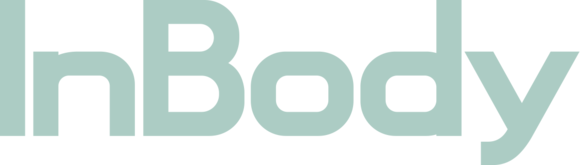
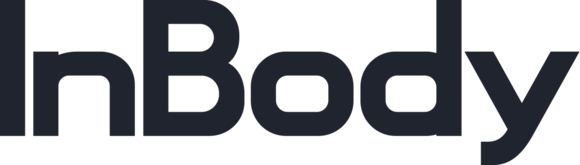
1.2 image update dev

diff --git a/util_1_2.py b/util_1_2.py
@@ -807,7 +807,7 @@ def initialize(array_for_static_l, value_for_static_l, array_for_static_r, value
                     WHEEL_USE = False
                     laser_state = mode_2_off(mode_global, laser_state)
                     print('MODE 1, 대기 모드')
-                    win32api.mouse_event(win32con.MOUSEEVENTF_LEFTUP, 2020, 100, 0, 0)
+                    win32api.mouse_event(win32con.MOUSEEVENTF_LEFTUP, 100, 100, 0, 0)
 
                     # win32api.keybd_event(0x74, 0, 0, 0)  # F5 DOWN
                     # win32api.keybd_event(0x74, 0, win32con.KEYEVENTF_KEYUP, 0)  # F5 UP
@@ -918,7 +918,7 @@ def initialize(array_for_static_l, value_for_static_l, array_for_static_r, value
                     mod_y = max(0, mod_y);
                     mod_y = min(FULLSIZE[1], mod_y)
                     # print(mod_x, mod_y)
-                    return int(mod_x) + 1920, int(mod_y)
+                    return int(mod_x) - 1919, int(mod_y)
 
                 def mousemove(self):
                     if now_click == True:
@@ -1574,12 +1574,9 @@ def initialize(array_for_static_l, value_for_static_l, array_for_static_r, value
             Form.setStyleSheet("background-color : rgb(248, 249, 251);")
 
             self.label = QtWidgets.QLabel(Form)
-            self.label.setGeometry(QtCore.QRect(272, 72, 271, 41))
-            font = QtGui.QFont()
-            font.setFamily("서울남산 장체B")
-            font.setPointSize(18)
-            self.label.setFont(font)
-            self.label.setStyleSheet("color : rgb(32, 36, 47)")
+            self.label.setGeometry(QtCore.QRect(217, 72, 300, 48))
+
+            self.label.setStyleSheet("image:url(./Image/logo.png)")
             self.label.setObjectName("label")
 
             # self.label_2 = QtWidgets.QLabel(Form)
@@ -1608,13 +1605,13 @@ def initialize(array_for_static_l, value_for_static_l, array_for_static_r, value
             self.pushButton_8.setStyleSheet(
                 '''
                 QPushButton{image:url(./Image/setting.png); border:0px;}
-                QPushButton:hover{image:url(./Image/setting-hover.png); border:0px;}
+                QPushButton:hover{image:url(./Image/setting_hover.png); border:0px;}
                 ''')
             self.pushButton_8.setObjectName("pushButton_8")
             self.pushButton_8.clicked.connect(self.settingwindow)
 
             # Button 5 : Power
-            self.pushButton_5 = QtWidgets.QPushButton('&카메라 켜기', Form)
+            self.pushButton_5 = QtWidgets.QPushButton(Form)
             self.pushButton_5.setGeometry(QtCore.QRect(30, 538, 502, 100))
             self.pushButton_5.setStyleSheet("border-radius : 100; border : 2px;")
             '''
@@ -1622,6 +1619,7 @@ def initialize(array_for_static_l, value_for_static_l, array_for_static_r, value
                 QPushButton:hover{image:url(./image/Power-hover.png); border:0px;}
                 QPushButton:checked{image:url(./image/Power-on.png); border:0px;}
             '''
+
             self.pushButton_5.setStyleSheet(
                 '''
                 QPushButton{
@@ -1630,19 +1628,24 @@ def initialize(array_for_static_l, value_for_static_l, array_for_static_r, value
                     stop:0 rgba(226, 0, 46, 255),
                     stop:1 rgba(144, 61, 167, 255));
                     border-radius: 30px;
+                    image:url(./image/cam_on.png);
                 }
                 QPushButton:hover {
                     background-color: rgb(246, 20, 66); border-radius: 30px;
                 }
+                QPushButton:checked{
+                    background-color: rgb(246, 20, 66); border-radius: 30px;
+                    image:url(./image/cam_off.png);
+                    }
                 ''')
             self.pushButton_5.setObjectName("pushButton_5")
             self.pushButton_5.setCheckable(True)
             self.pushButton_5.raise_()
 
             # Button 6 : Question Mark
-            self.pushButton_6 = QtWidgets.QPushButton('&가이드 열기', Form)
+            self.pushButton_6 = QtWidgets.QPushButton(Form)
             self.pushButton_6.setGeometry(QtCore.QRect(547, 538, 502, 100))
-            self.pushButton_6.setStyleSheet("border-radius : 55; border : 2px;")
+            self.pushButton_6.setStyleSheet("border : 2px;")
             '''
                 QPushButton{image:url(./Image/qmark.png); border:0px;}
                 QPushButton:hover{image:url(./Image/qmark-hover.png); border:0px;}
@@ -1656,6 +1659,7 @@ def initialize(array_for_static_l, value_for_static_l, array_for_static_r, value
                     stop:0 rgba(0, 160, 182, 255),
                     stop:1 rgba(144, 61, 167, 255));
                     border-radius: 30px;
+                    image:url(./Image/guide_open.png);
                 }
                 QPushButton:hover {
                     background-color: rgb(20, 180, 202); border-radius: 30px;
@@ -1671,7 +1675,7 @@ def initialize(array_for_static_l, value_for_static_l, array_for_static_r, value
             self.pushButton_9.setStyleSheet(
                 '''
                 QPushButton{image:url(./image/inbody.png); border:0px;}
-                QPushButton:hover{image:url(./image/인바디.png); border:0px;}
+                QPushButton:hover{image:url(./image/inbody_hover.png); border:0px;}
                 
                 ''')
 
@@ -1683,7 +1687,7 @@ def initialize(array_for_static_l, value_for_static_l, array_for_static_r, value
             self.pushButton_10.setStyleSheet(
                 '''
                 QPushButton{image:url(./image/exit.png); border:0px;}
-                QPushButton:hover{image:url(./image/exit-hover.png); border:0px;}
+                QPushButton:hover{image:url(./image/exit_hover.png); border:0px;}
                 ''')
             self.pushButton_10.setObjectName("pushButton_10")
             self.pushButton_10.clicked.connect(self.exitDialog)
@@ -1700,41 +1704,29 @@ def initialize(array_for_static_l, value_for_static_l, array_for_static_r, value
             self.label_6.setGeometry(QtCore.QRect(0, 0, 811, 608))
             self.label_6.setStyleSheet("background-color : white; border-radius: 30px;", )
             self.label_6.setObjectName("label_6")
-            self.label_6.setPixmap(QtGui.QPixmap("./image/default2.jpg"))
+            self.label_6.setPixmap(QtGui.QPixmap("./image/default.jpg"))
 
             self.cam_frame = QtWidgets.QLabel(self.frame)
             self.cam_frame.setGeometry(QtCore.QRect(0, 0, 811, 608))
             self.cam_frame.setStyleSheet("background-color : rgba(0,0,0,0%);")
             self.cam_frame.setObjectName("cam_frame")
             self.cam_frame.setPixmap(QtGui.QPixmap("./image/cam_frame.png"))
-            # # original
-            # pixmap = QtGui.QPixmap("./image/default2.jpg")
-            # pixmap = pixmap.scaledToWidth(811)
-            # pixmap = pixmap.scaledToHeight(608)
-            # radius = 30
-            #
-            # # create empty pixmap of same size as original
-            # rounded = QtGui.QPixmap(pixmap.size())
-            # rounded.fill(QtGui.QColor("transparent"))
-            #
-            # # draw rounded rect on new pixmap using original pixmap as brush
-            # painter = QtGui.QPainter(rounded)
-            # painter.setRenderHint(QtGui.QPainter.Antialiasing)
-            # painter.setBrush(QtGui.QBrush(pixmap))
-            # painter.setPen(QtCore.Qt.NoPen)
-            # painter.drawRoundedRect(pixmap.rect(), radius, radius)
-            #
-            # # set pixmap of label
-            # self.label_6.setPixmap(rounded)
+
+            self.script_frame = QtWidgets.QLabel(Form)
+            self.script_frame.setGeometry(QtCore.QRect(30, 668, 100, 100)) #1860, 350))
+            self.script_frame.setStyleSheet("background-color : rgba(0,250,255,50%);")
+            self.script_frame.setObjectName("script_frame")
+            self.script_frame.setPixmap(QtGui.QPixmap("./image/script_frame.png"))
+
 
             self.pushButton_7 = QtWidgets.QPushButton(self.frame)
-            self.pushButton_7.setGeometry(QtCore.QRect(576, 528, 200, 60))
+            self.pushButton_7.setGeometry(QtCore.QRect(610, 540, 200, 60))
             self.pushButton_7.setStyleSheet("border-radius : 55; border : 2px;")
             self.pushButton_7.setStyleSheet("background-color : rgba( 255, 255, 255, 0% );, ")
             self.pushButton_7.setStyleSheet(
                 '''
-                QPushButton{image:url(./image/cam.png); border:0px;}
-                QPushButton:hover{image:url(./image/cam-hover.png); border:0px;}
+                QPushButton{image:url(./image/capture.png); border:0px;}
+                QPushButton:hover{image:url(./image/capture_hover.png); border:0px;}
                 ''')
             self.pushButton_7.setObjectName("pushButton_7")
 
@@ -2027,7 +2019,7 @@ def initialize(array_for_static_l, value_for_static_l, array_for_static_r, value
             # self.label_2.setText(_translate("Form", "Presentation Tool"))
             # self.label_3.setText(_translate("Form", "1.2"))
             # 여기다가
-            self.label.setText(_translate("Form", "Motion Presentation"))
+            # self.label.setText(_translate("Form", "Motion Presentation"))
             # self.label_4.setText(_translate("Form", "MODE"))
 
         def exitDialog(self):
@@ -2133,7 +2125,7 @@ def initialize(array_for_static_l, value_for_static_l, array_for_static_r, value
                     if button.isChecked():
                         button.toggle()
                 self.button6_checked.emit(False)
-                self.label_6.setPixmap(QtGui.QPixmap("./image/default2.jpg"))
+                self.label_6.setPixmap(QtGui.QPixmap("./image/default.jpg"))
 
         def settingwindow(self):
             dlg = Setting_window()
@@ -2156,11 +2148,14 @@ def initialize(array_for_static_l, value_for_static_l, array_for_static_r, value
             # 30, 668
             grabGeometry.moveTopLeft(self.grabWidget.mapToGlobal(QtCore.QPoint(30, 668)))
 
+
+
             # get the actual margins between the grabWidget and the window margins
             left = frameRect.left() - grabGeometry.left()
             top = frameRect.top() - grabGeometry.top()
             right = frameRect.right() - grabGeometry.right()
             bottom = frameRect.bottom() - grabGeometry.bottom()
+
 
             # reset the geometries to get "0-point" rectangles for the mask
             frameRect.moveTopLeft(QtCore.QPoint(30, 668))

diff --git a/OLD/util_Algorithm.py b/OLD/util_Algorithm.py
@@ -1006,7 +1006,7 @@ def initialize(array_for_static_l, value_for_static_l, array_for_static_r, value
                     mod_y = max(0, mod_y);
                     mod_y = min(FULLSIZE[1], mod_y)
                     # print(mod_x, mod_y)
-                    return int(mod_x) + 1920, int(mod_y)
+                    return int(mod_x), int(mod_y)
 
                 def mousemove(self):
                     if now_click == True:
